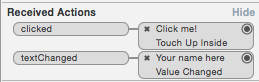
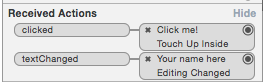
Finished IB Basics walkthrough

Changed region(s): [[0.0, 0.0, 1.0, 1.0]]

diff --git a/en/walkthroughs/ib-basics/ib-basics.md b/en/walkthroughs/ib-basics/ib-basics.md
@@ -20,7 +20,9 @@ We will transform the boring template from this:
 
 ![images/end-result.png](images/end-result.png)
 
-To this:
+To this amazing application:
+
+![images/final-result.png](images/final-result.png)
 
 Our app will allow a user to enter her name and click on the `Click Me!` button to see a nice personalized greeting.
 
@@ -496,8 +498,62 @@ Let's assign the text change event of the text field to this action:
 3. Click on the port next to the `textChanged` outlet and drag a line to the text field on the canvas or in the outline view
   ![images/add-action.png](images/add-action.png)
 
-4. From the popup dialog select `Value Changed`
+4. From the popup dialog select `Editing Changed`
  ![images/value-changed.png](images/value-changed.png)
 
 The text changed event is now assigned to the action in our controller:
  ![images/action.png](images/action.png)
+
+When the user types in the text field, the `GreetingsController#textChanged()` method will be called:
+
+## Finishing Touches
+Our app is almost complete. The only thing left to do is changed the controller code such that we assign a greeting text to the label when the `Click Me!` button is pressed. The final code of `GreetingsController` looks like this:
+
+```java
+package com.mycompany.myapp;
+
+import org.robovm.apple.uikit.UILabel;
+import org.robovm.apple.uikit.UITextField;
+import org.robovm.apple.uikit.UIViewController;
+import org.robovm.objc.annotation.CustomClass;
+import org.robovm.objc.annotation.IBAction;
+import org.robovm.objc.annotation.IBOutlet;
+
+@CustomClass("GreetingsController")
+public class GreetingsController extends UIViewController {
+    private UILabel label;
+    private UITextField textField;
+
+    @IBOutlet
+    public void setTextField(UITextField textField) {
+        this.textField = textField;
+    }
+
+    @IBOutlet
+    public void setLabel(UILabel label) {
+        this.label = label;
+    }
+
+    @IBAction
+    private void clicked() {
+        String name = textField.getText();
+        if (name.isEmpty()) {
+            name = "Unknown";
+        }
+        label.setText("Hello " + name + "!");
+    }
+
+    @IBAction
+    private void textChanged() {
+        label.setText("I see you typing!");
+    }
+}
+```
+
+Our application looks like this:
+![images/final-result.png](images/final-result.png)
+
+## Conclusion
+In this walkthrough you got to know the basics of RoboVM's Interface Builder integration. Using storyboards results in very concise code. Modifying the UI visually is also a lot easier than coding it by hand. Finally, you did not have to touch any Objective-C code, RoboVM took good care of that!
+
+With your new knowledge, you can now check out the other walkthroughs as well as Apple's official documentation!
